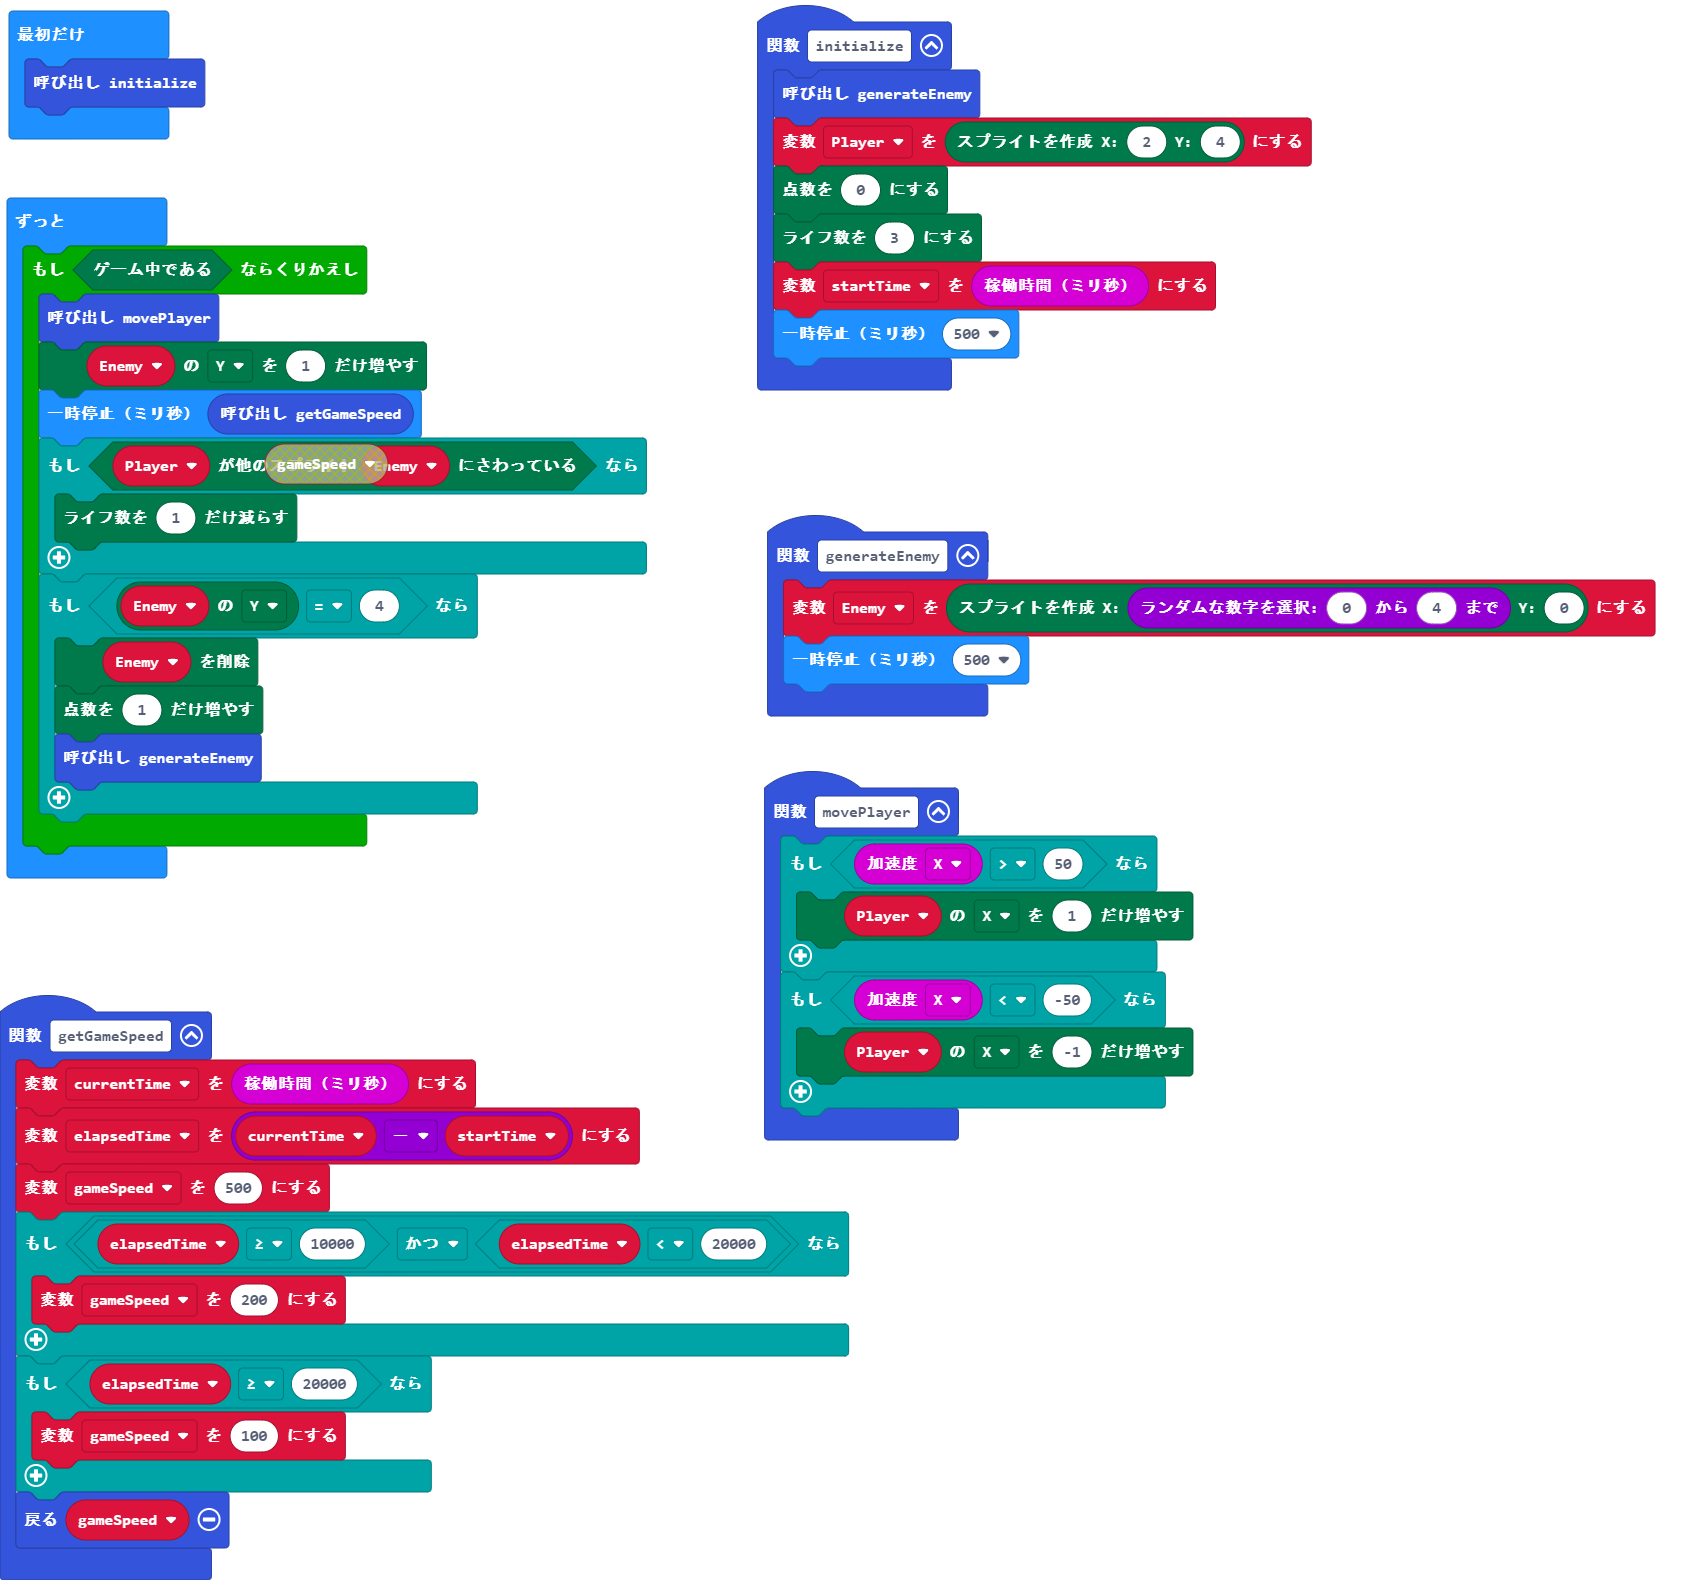
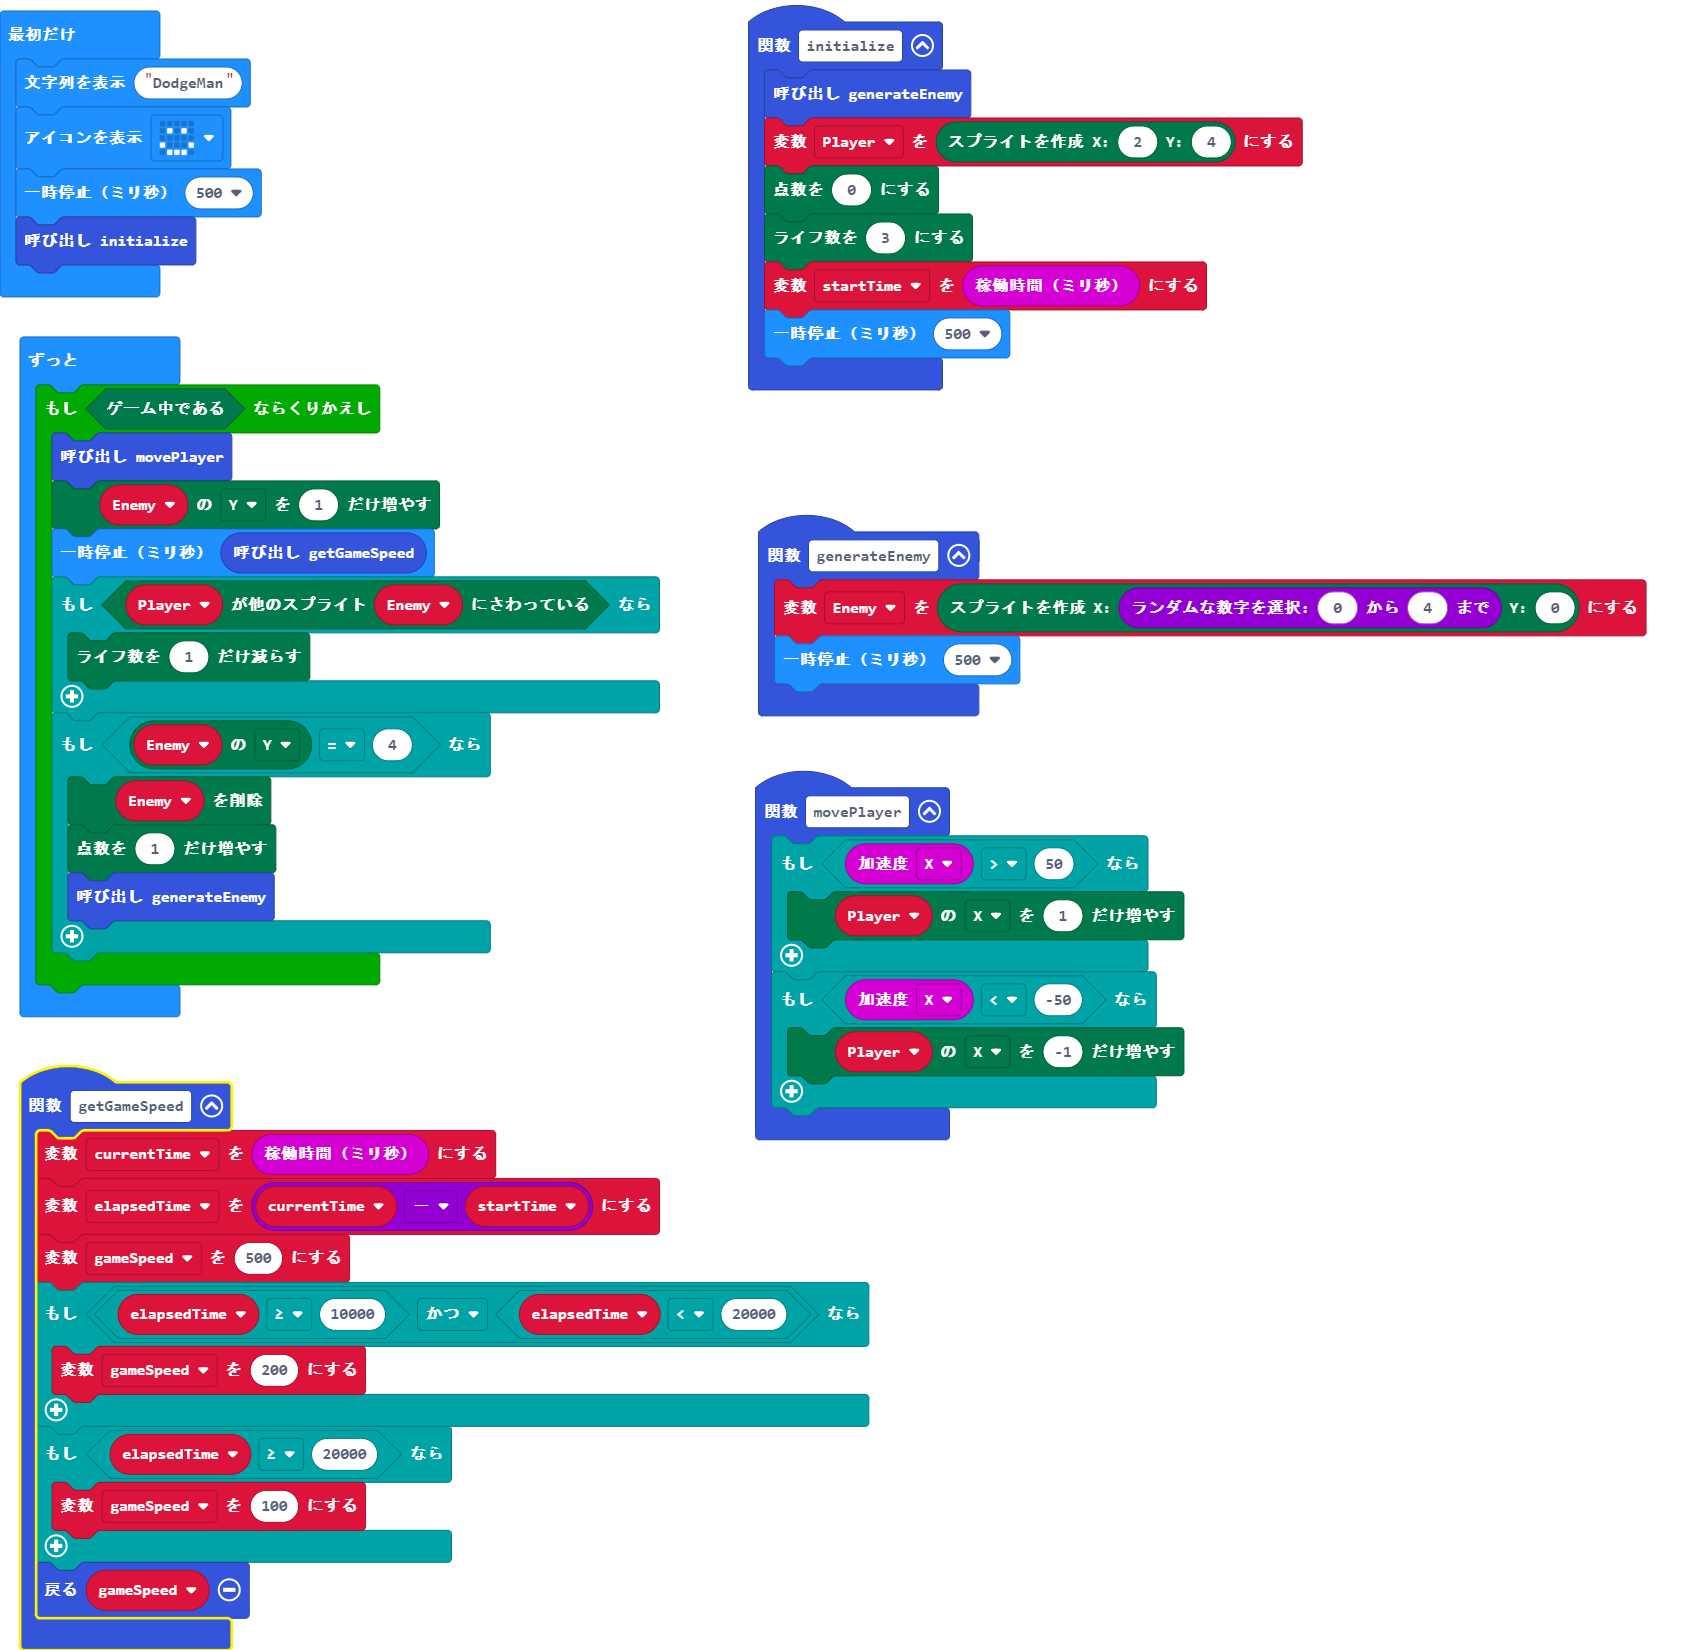
Add game title.

Changed region(s): [[0.0, 0.0, 0.9676, 1.0], [0.437, 0.0, 0.7803, 0.2481]]

diff --git a/main.ts b/main.ts
@@ -36,6 +36,9 @@ let currentTime = 0
 let startTime = 0
 let Player: game.LedSprite = null
 let Enemy: game.LedSprite = null
+basic.showString("DodgeMan")
+basic.showIcon(IconNames.Happy)
+basic.pause(500)
 initialize()
 basic.forever(function () {
     while (game.isRunning()) {
